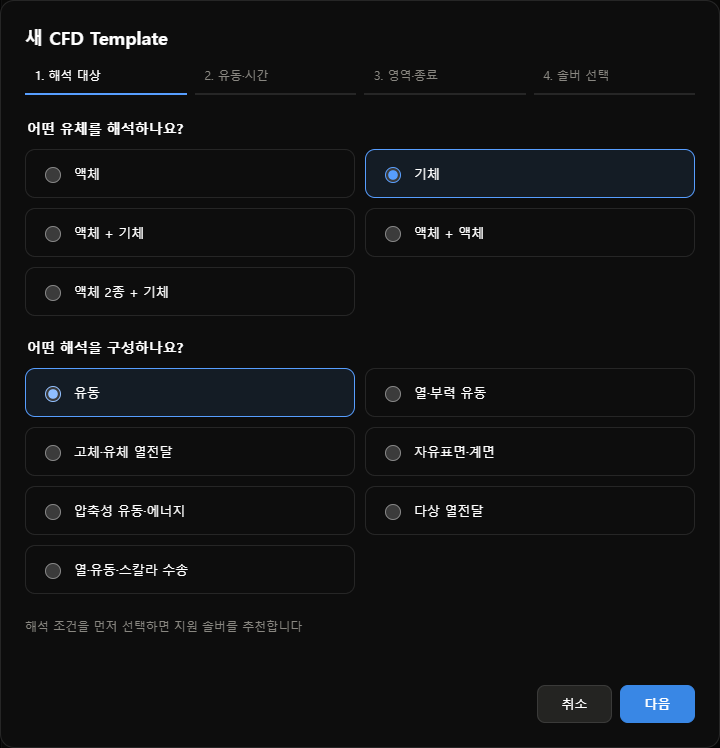
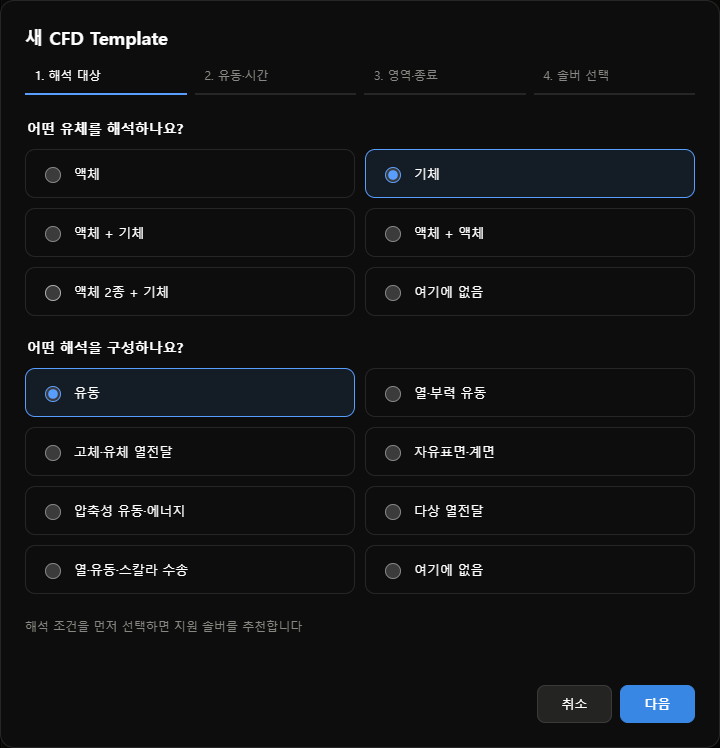
Add unsupported choices to every CFD Template survey question

Changed region(s): [[0.5194, 0.738, 0.6722, 0.7995], [0.5194, 0.369, 0.6722, 0.3997], [0.0611, 0.5227, 0.0917, 0.5535]]

diff --git a/cfd_studio/internal/i18n_help.js b/cfd_studio/internal/i18n_help.js
@@ -8,7 +8,7 @@
  ['Solvers and inputs',[ 'Choose liquid, gas or multiple phases; supply material properties and initial/boundary conditions', 'Geometry and mesh define the calculation domain and spatial resolution', 'Numerical settings include discretization, linear solvers, coupling, time step and output interval', 'Required fields depend on the selected solver and models', 'Standard solvers include icoFoam, simpleFoam, pisoFoam, pimpleFoam, buoyantSimpleFoam, buoyantPimpleFoam, chtMultiRegionFoam, interFoam, interIsoFoam and rhoPimpleFoam', 'Studio also defines dedicated multiphase cooling and warehouse transport configurations', 'Installation check detects executable files; it does not install a solver or connect a new execution adapter', 'New generic Templates support project, Config and preset storage; running them requires a compatible execution adapter' ]],
  ['Results',[ '3D Virtual: stored fields, geometry and saved-time playback', 'Data Sheet: up to three overall means on the left and nearest-cell time series at specified coordinates on the right', 'Line, bar and scatter are display styles; changing style does not change result values', 'The mean is an arithmetic mean of valid stored cells, not a volume-weighted mean', 'Solver time step, output interval, playback speed and termination are independent', 'Execution status, numerical checks and visualization readiness are separate; 100% visualization readiness does not establish convergence or experimental validation' ]]],
  [['CFD',[ 'Open the CFD tab at the top', 'Find project: choose a CFD Studio project folder and select Add; folder structure and records are checked before registration', 'New project: enter name, folder and description; select a CFD Template and either Enter values or a Template preset', 'Enter Config: complete the blank fields, select Apply, then Save in the project dialog', 'Save as preset is off by default; enable it and enter a new name to save a separate preset', 'Manage project: edit name, description, default preset or folder; a default-preset change affects future Cases only', 'Changing the folder copies and verifies data before switching the connection; existing originals are preserved', '+CFD Case: enter a name, edit Config and termination, then Save Case', 'Select the Case → Add to queue → Start queue', 'Config differences and Solver log stay visible; long content scrolls inside each section' ]],
- ['CFD Template',[ 'CFD Template list → +; use Edit beside an existing Template', 'Complete analysis target, flow/time and domain/termination questions before choosing a solver', 'Recommend solvers: compare matching candidates and select one; no fields are generated until selection', 'Generate fields → enter name and description → Edit fields → Apply → Save Template', 'Edit questionnaire to revise conditions; Cancel preserves the existing structure. An existing Template keeps its solver; use a new Template for another solver. Enter physical values when creating a project', 'Download JSON / Import JSON in the Template editor uses definition files; project Config uses input-value JSON', 'Changing the display language does not change JSON keys, units or stored input values' ]],
+ ['CFD Template',[ 'CFD Template list → +; use Edit beside an existing Template', 'Complete analysis target, flow/time and domain/termination questions before choosing a solver', 'None of these: shows unsupported questions and blocks recommendations and generation for the current registered solvers and forms; revise the answer or cancel', 'Recommend solvers: compare matching candidates and select one; no fields are generated until selection', 'Generate fields → enter name and description → Edit fields → Apply → Save Template', 'Edit questionnaire to revise conditions; Cancel preserves the existing structure. An existing Template keeps its solver; use a new Template for another solver. Enter physical values when creating a project', 'Download JSON / Import JSON in the Template editor uses definition files; project Config uses input-value JSON', 'Changing the display language does not change JSON keys, units or stored input values' ]],
  ['Queue and recovery',[ 'Before execution: edit, reorder with ↑ / ↓, or remove pending Cases', 'Pause after current Case lets the current calculation finish and pauses the next', 'Failure stops the queue; inspect Failure details and recovery, then Retry or Skip and Start queue', 'Resume is available only when the adapter and complete restart data support it; the warehouse adapter currently does not support resume', 'Retry preserves previous records and starts a new attempt; completed calculations are not automatically rerun', 'After restarting Studio, records and queue are restored; inspect the queue before starting' ]],
  ['Termination',[ 'Choose physical time or saved frame count; state whether the initial 0 s frame is included', 'Frame count means completely saved result frames, not solver iterations', 'Convergence termination is disabled until the execution adapter supports sustained convergence checks', 'To reuse a started Case: View Config → New Case from this Config' ]],
  ['Results and export',[ 'Generate prepares saved results for visualization; Update adds new results; Open enters Viewer', 'Result folder opens the original result location', 'Full CSV in CFD Case details exports all stored time-series and spatial arrays in a ZIP, independent of the visible graph', 'The ZIP includes time_series.csv, fields/ and manifest.json; unsaved original cells cannot be reconstructed' ]],
@@ -24,7 +24,7 @@
  ['ソルバーと入力',[ '液体・気体・多相を選択し、物性・初期条件・境界条件を入力', '形状・メッシュで計算領域と空間解像度を定義', '数値設定には離散化・線形ソルバー・連成手法・時間刻み・保存間隔を指定', '必須入力は選択したソルバー・モデルによって変化', '標準ソルバー：icoFoam、simpleFoam、pisoFoam、pimpleFoam、buoyantSimpleFoam、buoyantPimpleFoam、chtMultiRegionFoam、interFoam、interIsoFoam、rhoPimpleFoam', 'Studioには多相冷却・倉庫輸送の専用構成も用意', 'インストール確認は実行ファイルの有無を確認する機能。インストールや実行アダプターの接続は別途必要', '新規汎用Templateはプロジェクト・Config・プリセットを保存可能。計算には対応する実行アダプターが必要' ]],
  ['結果',[ '3D Virtual：保存された場・形状・時間変化を表示', 'Data Sheet：左側に最大3項目の全体平均、右側に指定座標の最近接セルの時系列を表示', '折れ線・棒・散布図は表示形式。形式を変更しても結果値は不変', '全体平均は有効な保存セルの算術平均であり、体積加重平均ではありません', 'ソルバー時間刻み・結果保存間隔・再生速度・終了条件は独立', '実行状態・数値検査・可視化準備率を別々に表示。準備率100%は収束・実験検証の完了を意味しません' ]]],
  [['CFD',[ '画面上部のCFDタブを選択', 'プロジェクトを探す：CFD Studioプロジェクトのフォルダーを選択して追加。構造と記録の検証後に登録', '新規プロジェクト：名前・フォルダー・説明を入力し、CFD Templateと直接入力またはプリセットを選択', 'Configを入力：空欄に値を記入 → Apply → プロジェクト画面で保存', 'プリセットに保存は既定でオフ。オンにして新しい名前を入力すると別のプリセットとして保存', 'プロジェクト管理：名前・説明・既定プリセット・保存先を変更。既定プリセット変更は今後のCaseにのみ適用', '保存先変更はコピー・検証後に接続先を切替。元のデータは保持', '+CFD Case：名前・Config・終了条件を入力してCaseを保存', 'Caseを選択 → キューに追加 → キューを開始', 'Configの差分とソルバーログは常時表示。長い内容は各領域内でスクロール' ]],
- ['CFD Template',[ 'CFD Template一覧 → +。既存項目は右側の編集を選択', '解析対象・流動と時間・領域と終了条件の設問に回答してからソルバーを選択', 'ソルバーを推薦：条件に適合する候補を比較して1つ選択。選択前には入力形式を生成しません', '入力形式を生成 → 名前・説明を入力 → 入力形式を編集 → Apply → Templateを保存', '設問を編集で条件変更。キャンセルすると既存形式を保持。既存Templateのソルバーは固定し、別のソルバーには新規Templateを使用。物理入力値はプロジェクト作成時に入力', 'Template画面のDownload JSON / Import JSONは定義ファイル、プロジェクトConfigでは入力値JSONを使用', '表示言語を変更してもJSONキー・単位・保存入力値は不変' ]],
+ ['CFD Template',[ 'CFD Template一覧 → +。既存項目は右側の編集を選択', '解析対象・流動と時間・領域と終了条件の設問に回答してからソルバーを選択', 'ここにない：現在登録済みのソルバー・入力形式では対応できない項目を表示し、推薦・生成を停止。回答の変更またはキャンセルが可能', 'ソルバーを推薦：条件に適合する候補を比較して1つ選択。選択前には入力形式を生成しません', '入力形式を生成 → 名前・説明を入力 → 入力形式を編集 → Apply → Templateを保存', '設問を編集で条件変更。キャンセルすると既存形式を保持。既存Templateのソルバーは固定し、別のソルバーには新規Templateを使用。物理入力値はプロジェクト作成時に入力', 'Template画面のDownload JSON / Import JSONは定義ファイル、プロジェクトConfigでは入力値JSONを使用', '表示言語を変更してもJSONキー・単位・保存入力値は不変' ]],
  ['キューと復旧',[ '開始前のCaseは編集・↑ / ↓で並べ替え・キューから除外が可能', '現在のCase完了後に一時停止：現在の計算を続け、次のCaseから停止', '失敗時はキュー停止。失敗理由と復旧を確認 → やり直す／スキップ → キューを開始', '再開には対応アダプターと完全な再開データが必要。倉庫アダプターは現在再開に未対応', 'やり直す：前の記録を保持して新しい試行を開始。完了済みの計算は自動再実行しません', 'Studio再起動後は記録・キューを復元。キューを確認してから開始' ]],
  ['終了条件',[ '指定物理時間または保存フレーム数を選択。0秒の初期フレームを含むかを確認', 'フレーム数は完全保存された結果の数であり、ソルバー反復回数とは別', '収束終了は一定期間の収束判定に対応する実行アダプター接続まで無効', '実行済み入力を再利用：Configを表示 → このConfigで新規Case' ]],
  ['結果と書き出し',[ '生成：結果を可視化用に準備。更新：新規結果を反映。開く：Viewerを表示', '結果フォルダー：原本の保存先を開く', 'CFDのCase詳細にある全CSV：表示中のグラフと無関係に全保存時系列・空間配列をZIPで書き出す', 'ZIPはtime_series.csv・fields/・manifest.jsonを含む。未保存の原本セルは復元不可' ]],

diff --git a/cfd_studio/internal/form_wizard.js b/cfd_studio/internal/form_wizard.js
@@ -3,7 +3,7 @@
     const el=(tag,text,cls)=>{const e=document.createElement(tag);if(text!=null)e.textContent=text;if(cls)e.className=cls;return e;};
   function ensureStyle(){
     if(!document.getElementById('formWizardStyle')){const style=el('style');style.id='formWizardStyle';style.textContent=`
-      .fw-dialog [hidden]{display:none!important}.fw-dialog{width:min(720px,94vw);max-height:90vh;overflow:auto;border:1px solid var(--line);border-radius:14px;padding:24px;background:var(--card,var(--page));color:var(--text)}.fw-dialog::backdrop{background:#000a}.fw-dialog h2{font-size:18px;margin:0 0 8px}.fw-meta{color:var(--muted);font-size:12px;margin-bottom:20px}.fw-progress{display:flex;gap:8px;margin:0 0 24px}.fw-progress span{flex:1;padding:10px;border-bottom:2px solid var(--line);font-size:12px;color:var(--muted)}.fw-progress [aria-current=step]{color:var(--text);border-color:var(--accent,#579eff)}.fw-question{border:0;padding:0;margin:0 0 22px}.fw-question legend{font-size:14px;font-weight:600;margin-bottom:12px}.fw-options{display:grid;grid-template-columns:repeat(2,minmax(0,1fr));gap:10px}.fw-choice{display:flex;align-items:center;gap:10px;padding:14px;border:1px solid var(--line);border-radius:10px;cursor:pointer;background:var(--page);font-size:13px}.fw-choice:has(input:checked){border-color:var(--accent,#579eff);background:color-mix(in srgb,var(--accent,#579eff) 10%,var(--page))}.fw-choice input{width:16px;height:16px;accent-color:var(--accent,#579eff)}.fw-actions{display:flex;justify-content:flex-end;gap:8px;margin-top:18px}.fw-error{color:var(--red,#f88);font-size:12px;min-height:18px}.fw-summary{display:grid;grid-template-columns:1fr 1fr;gap:8px;margin:16px 0}.fw-summary div{padding:12px;border:1px solid var(--line);border-radius:9px;font-size:13px}.fw-note{font-size:12px;color:var(--muted);line-height:1.7}.fw-dialog button{min-width:75px}@media(max-width:520px){.fw-options,.fw-summary{grid-template-columns:1fr}}
+      .fw-dialog [hidden]{display:none!important}.fw-dialog{width:min(720px,94vw);max-height:90vh;overflow:auto;border:1px solid var(--line);border-radius:14px;padding:24px;background:var(--card,var(--page));color:var(--text)}.fw-dialog::backdrop{background:#000a}.fw-dialog h2{font-size:18px;margin:0 0 8px}.fw-meta{color:var(--muted);font-size:12px;margin-bottom:20px}.fw-progress{display:flex;gap:8px;margin:0 0 24px}.fw-progress span{flex:1;padding:10px;border-bottom:2px solid var(--line);font-size:12px;color:var(--muted)}.fw-progress [aria-current=step]{color:var(--text);border-color:var(--accent,#579eff)}.fw-question{border:0;padding:0;margin:0 0 22px}.fw-question legend{font-size:14px;font-weight:600;margin-bottom:12px}.fw-options{display:grid;grid-template-columns:repeat(2,minmax(0,1fr));gap:10px}.fw-choice{display:flex;align-items:center;gap:10px;padding:14px;border:1px solid var(--line);border-radius:10px;cursor:pointer;background:var(--page);font-size:13px}.fw-choice:has(input:checked){border-color:var(--accent,#579eff);background:color-mix(in srgb,var(--accent,#579eff) 10%,var(--page))}.fw-choice input{width:16px;height:16px;accent-color:var(--accent,#579eff)}.fw-actions{display:flex;justify-content:flex-end;gap:8px;margin-top:18px}.fw-error{color:var(--red,#f88);font-size:12px;min-height:18px}.fw-summary{display:grid;grid-template-columns:1fr 1fr;gap:8px;margin:16px 0}.fw-summary div{padding:12px;border:1px solid var(--line);border-radius:9px;font-size:13px}.fw-note{font-size:12px;color:var(--muted);line-height:1.7}.fw-unsupported{border:1px solid var(--red,#c77770);border-radius:10px;padding:14px;margin-top:14px}.fw-unsupported strong{color:var(--red,#ed9288)}.fw-unsupported ul{font-size:12px;padding-left:20px}.fw-dialog button{min-width:75px}@media(max-width:520px){.fw-options,.fw-summary{grid-template-columns:1fr}}
     `;document.head.append(style);}
   }
 
@@ -42,8 +42,17 @@
     const titles={medium:'어떤 유체를 해석하나요?',purpose:'어떤 해석을 구성하나요?',regime:'유동 모델은 무엇인가요?',time_mode:'시간에 따른 변화를 계산하나요?',domain:'해석 영역은 어디인가요?',mesh:'격자는 어떻게 준비하나요?',termination:'어떤 기준으로 종료하나요?'};
     const d=el('dialog',null,'fw-dialog fw-recommend-dialog'),title=el('h2','새 CFD Template'),progress=el('nav',null,'fw-progress'),body=el('div'),error=el('p',null,'fw-error'),actions=el('div',null,'fw-actions');error.setAttribute('role','alert');
     const button=(label,fn,cls='')=>{const b=el('button',label,'btn '+cls);b.type='button';b.onclick=fn;return b;};
+    const unsupported=el('section',null,'fw-unsupported');unsupported.setAttribute('role','status');unsupported.hidden=true;
+    const fieldNames={medium:'유체',purpose:'해석',regime:'유동 모델',time_mode:'시간 방식',domain:'해석 영역',mesh:'격자 준비',termination:'종료 조건'};
+    const blocked=()=> (step<2?steps[step].slice(1):Object.keys(values)).some(k=>values[k]==='not_listed');
+    function showUnsupported(){
+      const fields=Object.keys(values).filter(k=>values[k]==='not_listed');unsupported.hidden=!fields.length;unsupported.replaceChildren();
+      if(fields.length){unsupported.append(el('strong','지원 불가'),el('p','여기에 없음으로 선택한 항목','fw-note'));const list=el('ul');for(const k of fields)list.append(el('li',fieldNames[k]||k));unsupported.append(list,el('p','현재 등록된 솔버·양식에서 지원하지 않습니다 · 해당 조건의 추가 정의가 필요합니다','fw-note'));}
+      next.disabled=busy||blocked()||(step===3&&!chosen);
+    }
     const cancel=button('취소',()=>d.close()),back=button('이전',()=>{if(!busy&&step>0){step--;render();}}),next=button('다음',async()=>{
       if(busy)return;error.textContent='';
+      if(blocked()){showUnsupported();return;}
       if(step<3)for(const key of steps[step].slice(1)){if(!values[key]){error.textContent=titles[key];return;}}
       if(step<2){step++;render();return;}
       if(step===3&&!chosen){error.textContent='추천 목록에서 솔버를 선택하세요';return;}
@@ -54,14 +63,14 @@
         else{const result=await generate(chosen,snapshot);if(!d.isConnected)return;await onApply({solver:chosen,answers:snapshot,result});if(d.isConnected)d.close();return;}
       }catch(e){if(d.isConnected)error.textContent=e.message;}
       finally{busy=false;if(d.isConnected)render();}
-    },'pri');actions.append(cancel,back,next);d.append(title,progress,body,error,actions);
+    },'pri');actions.append(cancel,back,next);d.append(title,progress,body,unsupported,error,actions);
     function render(){
       progress.replaceChildren();for(const [i,s] of steps.entries()){const n=el('span',(i+1)+'. '+s[0]);if(i===step)n.setAttribute('aria-current','step');progress.append(n);}
       body.replaceChildren();back.hidden=step===0;back.disabled=busy;next.disabled=busy||(step===3&&!chosen);next.textContent=step===2?'솔버 추천':step===3?'양식 생성':'다음';
       if(step<3){
         for(const key of steps[step].slice(1)){
           const group=el('fieldset',null,'fw-question'),choices=el('div',null,'fw-options');group.append(el('legend',titles[key]),choices);
-          for(const item of options[key]){const label=el('label',null,'fw-choice'),radio=el('input');radio.type='radio';radio.name=key;radio.value=item.value;radio.checked=values[key]===item.value;radio.onchange=()=>{values[key]=item.value;chosen='';selected='';error.textContent='';};label.append(radio,el('span',item.label));choices.append(label);}
+          for(const item of options[key]){const label=el('label',null,'fw-choice'),radio=el('input');radio.type='radio';radio.name=key;radio.value=item.value;radio.checked=values[key]===item.value;radio.onchange=()=>{values[key]=item.value;chosen='';selected='';error.textContent='';showUnsupported();};label.append(radio,el('span',item.label));choices.append(label);}
           body.append(group);
         }
         body.append(el('p','해석 조건을 먼저 선택하면 지원 솔버를 추천합니다','fw-note'));
@@ -76,6 +85,7 @@
         body.append(el('p',summary.basis,'fw-note'),el('p','새 Template은 양식만 생성하며 계산에는 실행기 연결이 필요합니다','fw-note'));
         if(replace)body.append(el('p','양식 생성 시 기존 편집 양식을 교체합니다 · 취소하면 기존 양식 유지','fw-note'));
       }
+      showUnsupported();
     }
     d.onclose=()=>d.remove();render();document.body.append(d);d.showModal();
   }

diff --git a/tests/browser_solver_survey.js b/tests/browser_solver_survey.js
@@ -7,11 +7,29 @@ async page=>{
  let wizard=page.locator('.fw-recommend-dialog');await wizard.waitFor();
  check(await page.locator('dialog.ew-form-dialog').count()===0,'new Template begins with questionnaire');check(await wizard.locator('[name=solver],[name=recommended_solver]').count()===0,'no solver choice before questionnaire');
  await wizard.getByRole('button',{name:'다음',exact:true}).click();check(await wizard.getByRole('alert').innerText().then(t=>t.includes('유체')),'unanswered question prevents advance');
+ // Every question permits an explicit unsupported answer without creating a Template.
+ const noneCheck=async(key,valid)=>{
+  const radios=wizard.locator(`input[name=${key}]`);
+  check(await radios.last().inputValue()==='not_listed',key+' has none-of-these last');
+  await radios.last().check();
+  check(await wizard.locator('.fw-unsupported').isVisible(),key+' shows unsupported verdict');
+  check(await wizard.locator('.fw-actions .pri').isDisabled(),key+' blocks next step');
+  await wizard.locator(`input[name=${key}][value=${valid}]`).check();
+  check(await wizard.locator('.fw-unsupported').isHidden()&&!await wizard.locator('.fw-actions .pri').isDisabled(),key+' can recover');
+ };
+ await noneCheck('medium','gas');await noneCheck('purpose','flow');
+ await wizard.locator('input[name=medium][value=not_listed]').check();await wizard.locator('input[name=purpose][value=not_listed]').check();
+ check(await wizard.locator('.fw-unsupported li').count()===2,'all unsupported questions listed');
+ await page.evaluate(()=>CFDI18n.setLanguage('en'));await wizard.getByText('Not supported',{exact:true}).waitFor();check(await wizard.getByText('None of these',{exact:true}).count()===2,'English none option');
+ await page.evaluate(()=>CFDI18n.setLanguage('ja'));await wizard.getByText('対応不可',{exact:true}).waitFor();check(await wizard.getByText('ここにない',{exact:true}).count()===2,'Japanese none option');
+ await page.evaluate(()=>CFDI18n.setLanguage('ko'));await wizard.getByText('지원 불가',{exact:true}).waitFor();await wizard.screenshot({path:'output/playwright/survey-unsupported.png'});
+ check(JSON.stringify(await api('/forms'))===JSON.stringify(before),'unsupported choices leave stored Templates unchanged');
  await wizard.locator('input[name=medium][value=gas]').check();await wizard.locator('input[name=purpose][value=flow]').check();
  await page.evaluate(()=>CFDI18n.setLanguage('en'));check(await wizard.innerText().then(t=>t.includes('Which fluid')),'English questionnaire');await page.evaluate(()=>CFDI18n.setLanguage('ja'));check(await wizard.innerText().then(t=>t.includes('どの流体')),'Japanese questionnaire');await page.evaluate(()=>CFDI18n.setLanguage('ko'));check(await wizard.locator('input[name=medium][value=gas]').isChecked(),'answers retained across language changes');
  await wizard.screenshot({path:'output/playwright/solver-survey.png'});
- await wizard.getByRole('button',{name:'다음',exact:true}).click();await wizard.locator('input[name=regime][value=laminar]').check();await wizard.locator('input[name=time_mode][value=transient]').check();await wizard.getByRole('button',{name:'다음',exact:true}).click();
- for(const [k,v] of Object.entries({domain:'internal',mesh:'import',termination:'physical_time'}))await wizard.locator(`input[name=${k}][value=${v}]`).check();
+ await wizard.getByRole('button',{name:'다음',exact:true}).click();await noneCheck('regime','laminar');await noneCheck('time_mode','transient');await wizard.getByRole('button',{name:'다음',exact:true}).click();
+ for(const [k,v] of Object.entries({domain:'internal',mesh:'import',termination:'physical_time'}))await noneCheck(k,v);
+ await wizard.locator('input[name=mesh][value=not_listed]').check();await wizard.getByRole('button',{name:'이전',exact:true}).click();await wizard.getByRole('button',{name:'다음',exact:true}).click();check(await wizard.locator('input[name=mesh][value=not_listed]').isChecked(),'back navigation preserves unsupported answer and permits returning to fix it');await wizard.locator('input[name=mesh][value=import]').check();
  await wizard.getByRole('button',{name:'솔버 추천',exact:true}).click();await wizard.locator('input[name=recommended_solver]').first().waitFor();
  check(JSON.stringify(await wizard.locator('input[name=recommended_solver]').evaluateAll(n=>n.map(x=>x.value)))===JSON.stringify(['icoFoam','pimpleFoam','pisoFoam']),'recommended set matches answers');
  check(generated===0,'recommendations do not generate fields');check(await wizard.getByRole('button',{name:'양식 생성',exact:true}).isDisabled(),'explicit solver selection required');

diff --git a/cfd_studio/internal/i18n.js b/cfd_studio/internal/i18n.js
@@ -612,6 +612,16 @@ add("모든 해석 조건을 선택하세요","Select all analysis conditions","
 add("지원되는 해석 조건을 선택하세요","Select supported analysis conditions","対応する解析条件を選択してください");
 add("추천 목록에서 조건에 맞는 솔버를 선택하세요","Select a compatible recommended solver","条件に適合する推薦ソルバーを選択してください");
 add("설문을 완료하고 솔버를 선택하세요","Complete the questionnaire and select a solver","設問に回答してソルバーを選択してください");
+add("여기에 없음","None of these","ここにない");
+add("지원 불가","Not supported","対応不可");
+add("여기에 없음으로 선택한 항목","Items marked as none of these","「ここにない」を選択した項目");
+add("현재 등록된 솔버·양식에서 지원하지 않습니다 · 해당 조건의 추가 정의가 필요합니다","Not supported by the registered solvers and input forms · These conditions require additional definitions","現在登録されているソルバー・入力形式では非対応 · この条件の追加定義が必要");
+add("지원 불가 · 여기에 없음으로 선택한 조건은 현재 등록된 솔버·양식에서 지원하지 않습니다","Not supported · Conditions marked as none of these are outside the registered solver and input-form definitions","対応不可 · 「ここにない」を選択した条件は登録済みソルバー・入力形式の対応範囲外");
+add("해당 조건을 지원하는 솔버·입력 양식의 추가 정의가 필요합니다","Additional solver and input-form definitions are required for these conditions","この条件に対応するソルバー・入力形式の追加定義が必要");
+add("유동 모델","Flow model","流動モデル");
+add("시간 방식","Time mode","時間方式");
+add("해석 영역","Analysis domain","解析領域");
+add("격자 준비","Mesh preparation","メッシュ準備");
 let language='ko';
 try{const saved=root.localStorage?.getItem(key);if(supported.includes(saved))language=saved;}catch(_){}
 const patterns=[

diff --git a/cfd_studio/app.py b/cfd_studio/app.py
@@ -14,7 +14,7 @@ from http.server import BaseHTTPRequestHandler, ThreadingHTTPServer
 from pathlib import Path
 from urllib.parse import urlparse, parse_qs, unquote
 
-APP_VER   = "v221"         # 화면 우상단·콘솔에 표시 — 업데이트 반영 확인용
+APP_VER   = "v222"         # 화면 우상단·콘솔에 표시 — 업데이트 반영 확인용
 PROCESS_STARTED = time.time()
 HERE      = os.path.dirname(os.path.abspath(__file__))
 # The bundled isolated Python also needs the application and repository modules.
@@ -5357,7 +5357,7 @@ INDEX_HTML = r'''<!DOCTYPE html>
    <details><summary>기존 프로젝트 등록</summary><ul><li>CFD 화면 왼쪽 상단 <b>프로젝트 찾기</b> 클릭</li><li><b>찾기</b>로 프로젝트 폴더 선택 또는 전체 경로 입력 → <b>추가</b></li><li>프로젝트 파일·실행 목록 검증 후 왼쪽 목록에 등록. 이미 등록된 폴더는 해당 프로젝트 선택</li><li>검증 실패 시 안내 내용을 확인하고 올바른 폴더 선택. 가져온 대기열은 일시정지 상태로 복원</li></ul></details>
    <details><summary>프로젝트 생성</summary><ul><li>왼쪽 <b>프로젝트</b> 제목 아래 <b>새 프로젝트</b> 클릭</li><li><b>프로젝트 이름</b> 입력 → <b>프로젝트 폴더</b> 옆 <b>찾기</b>로 저장 폴더 지정</li><li><b>프로젝트 설명</b> 입력 → <b>CFD Template</b> 선택 → <b>직접 입력 → Config 입력</b> 또는 해당 Template의 프리셋 선택 → <b>저장</b></li><li><b>프리셋에 저장</b> 체크 시 새 이름으로 입력값 프리셋 저장 · 기본 해제</li><li>저장한 프로젝트는 왼쪽 목록에서 이름을 클릭해 선택</li></ul></details>
    <details><summary>프로젝트 정보 및 저장 폴더 변경</summary><ul><li>프로젝트 선택 → 화면 오른쪽 상단 <b>프로젝트 관리</b></li><li>이름·설명·폴더·기본 프리셋 수정 → <b>저장</b>. C·D 등 드라이브 선택 가능</li><li>기본 프리셋 변경은 이후 생성하는 Case에 적용</li><li>폴더 변경은 복사·검증 후 연결 전환. 원본 보존. 계산·결과 저장 중에는 변경 불가</li></ul></details>
-   <details><summary>CFD Template 생성 및 편집</summary><ul><li>왼쪽 <b>CFD Template 리스트 → +</b></li><li><b>해석 대상 → 유동·시간 → 영역·종료</b> 순서로 설문 작성 → <b>솔버 추천</b></li><li>후보의 기능·출력·제한 확인 → 솔버 선택 → <b>양식 생성</b></li><li>맞는 후보가 없으면 <b>이전</b>으로 조건 확인 · 추천은 양식 지원 조건 기준이며 설치·실행 연결과 별도</li><li><b>양식 확인</b>에서 이름·설명 입력 → <b>양식 편집</b>에서 Key·Type·Unit 확인 → <b>Apply → Template 저장</b></li><li><b>설문 수정</b>으로 재구성 · 취소하면 기존 양식 유지 · 물성·치수·초기값은 프로젝트 생성 시 입력</li><li>기존 Template의 솔버는 고정 · 다른 솔버는 새 Template 생성</li><li><b>Download JSON / Import JSON</b>: Template 정의 파일 · 실제 입력값 JSON은 프로젝트의 <b>Config 입력</b>에서 관리</li><li><b>설치 확인</b>: 실행 파일 유무 확인 · 신규 Template 계산은 실행기 연결 필요</li></ul></details>
+   <details><summary>CFD Template 생성 및 편집</summary><ul><li>왼쪽 <b>CFD Template 리스트 → +</b></li><li><b>해석 대상 → 유동·시간 → 영역·종료</b> 순서로 설문 작성 → <b>솔버 추천</b></li><li><b>여기에 없음</b>: 지원하지 않는 항목 안내 후 추천·생성 중지 · 선택 수정 또는 취소 가능 · 현재 등록된 솔버·양식 기준</li><li>후보의 기능·출력·제한 확인 → 솔버 선택 → <b>양식 생성</b></li><li>맞는 후보가 없으면 <b>이전</b>으로 조건 확인 · 추천은 양식 지원 조건 기준이며 설치·실행 연결과 별도</li><li><b>양식 확인</b>에서 이름·설명 입력 → <b>양식 편집</b>에서 Key·Type·Unit 확인 → <b>Apply → Template 저장</b></li><li><b>설문 수정</b>으로 재구성 · 취소하면 기존 양식 유지 · 물성·치수·초기값은 프로젝트 생성 시 입력</li><li>기존 Template의 솔버는 고정 · 다른 솔버는 새 Template 생성</li><li><b>Download JSON / Import JSON</b>: Template 정의 파일 · 실제 입력값 JSON은 프로젝트의 <b>Config 입력</b>에서 관리</li><li><b>설치 확인</b>: 실행 파일 유무 확인 · 신규 Template 계산은 실행기 연결 필요</li></ul></details>
    <details><summary>CFD Case 생성 및 Config 입력</summary><ul><li>프로젝트 선택 → 화면 오른쪽 상단 파란 <b>+CFD Case</b></li><li><b>Case 이름</b> 입력 → 왼쪽 Config 항목 선택 → 오른쪽 값 입력</li><li>숫자 입력란은 문자 입력·붙여넣기를 차단. 정수 입력란은 소수도 차단. 빈 필수값·미완성 숫자·잘못된 JSON은 수정 후 저장</li><li><b>종료 조건·목표</b>에서 <b>특정 물리시간</b> 또는 <b>저장 프레임 수</b> 선택 → 목표값 입력</li><li>프레임 수 선택 시 <b>0초 초기 프레임 포함</b> 여부 확인. <b>수렴 기준</b>은 현재 선택 불가</li><li>창 하단 파란 <b>실행 저장</b> → 실행 목록에 Case 추가. 계산 시작은 대기열에서 진행</li></ul></details>
    <details><summary>프리셋 저장 및 불러오기</summary><ul><li>Case의 Config 편집창 상단 <b>프리셋에 저장</b> 체크박스</li><li>체크 해제: 해당 Case에만 저장. 체크: 새 프리셋 이름 입력 → <b>실행 저장</b> 시 별도 프리셋 저장</li><li>기존 값 사용: <b>프리셋 불러오기</b>에서 선택 → <b>불러오기</b></li></ul></details>
    <details><summary>대기열 구성 및 CFD 실행</summary><ul><li>가운데 <b>실행 목록</b>에서 Case 선택 → 오른쪽 <b>대기열에 추가</b></li><li>아래 <b>대기열</b> 영역의 파란 <b>대기열 시작</b> → <b>계산 중</b> 상태 확인</li><li>여러 Case는 각각 추가. 대기열 행의 <b>↑ / ↓</b>로 순서 변경, <b>제외</b>로 대기열에서 제거</li><li><b>다음 실행부터 일시정지</b>: 현재 Case 계산 유지. <b>실행 중단</b>: 선택한 실행 중 Case 중단</li><li>진행 내용: 오른쪽 <b>솔버 로그</b>에서 확인 · 항상 표시</li><li>실패: 원인 확인 → <b>실패 사유 및 복구</b> → <b>다시하기 / 이어하기 / 건너뛰기</b> → <b>대기열 시작</b>. 앱 재시작 후에도 대기열을 확인하고 시작</li><li><b>다시하기</b>: 기존 기록을 보존하고 처음부터 계산. Config 검증 실패 시 입력 수정 필요</li><li><b>이어하기</b>: 확인된 재시작 저장 지점부터 계산. 재시작 데이터가 없거나 실행기가 지원하지 않으면 사유 표시. 저장고 실행기는 현재 재개 미지원</li></ul></details>

diff --git a/cfd_studio/internal/form_wizard.py b/cfd_studio/internal/form_wizard.py
@@ -130,7 +130,7 @@ def survey_options():
     """Analysis-first questions; solver compatibility is checked separately."""
     labels=copy.deepcopy(LABELS)
     labels['time_mode']={'steady':'정상 해석','transient':'비정상 해석'}
-    return {k:[{'value':v,'label':label} for v,label in choices.items()] for k,choices in labels.items()}
+    return {k:[{'value':v,'label':label} for v,label in choices.items()]+[{'value':'not_listed','label':'여기에 없음'}] for k,choices in labels.items()}
 
 
 def recommend(answers):
@@ -139,6 +139,12 @@ def recommend(answers):
         raise ValueError('모든 해석 조건을 선택하세요')
     if any(not isinstance(answers[k],str) or answers[k] not in [o['value'] for o in choices] for k,choices in options.items()):
         raise ValueError('지원되는 해석 조건을 선택하세요')
+    missing=[k for k in options if answers[k]=='not_listed']
+    if missing:
+        return {'answers':copy.deepcopy(answers),'candidates':[],'status':'unsupported',
+                'unsupported_fields':missing,
+                'message':'지원 불가 · 여기에 없음으로 선택한 조건은 현재 등록된 솔버·양식에서 지원하지 않습니다',
+                'basis':'해당 조건을 지원하는 솔버·입력 양식의 추가 정의가 필요합니다'}
     candidates=[]
     for p in profiles():
         if p['time_mode']!=answers['time_mode']:continue
@@ -149,7 +155,7 @@ def recommend(answers):
                            'algorithm':p['requirements']['algorithm'],
                            'dedicated':item['dedicated'],
                            'reason':'선택한 유체·해석·시간 방식·유동 모델과 일치'})
-    return {'answers':copy.deepcopy(answers),'candidates':candidates,
+    return {'answers':copy.deepcopy(answers),'candidates':candidates,'status':'supported' if candidates else 'unsupported','unsupported_fields':[],
             'message':'' if candidates else '선택한 조건에 맞는 등록 솔버가 없습니다 · 이전 단계에서 조건을 확인하세요',
             'basis':'등록된 솔버의 양식 지원 조건 기준 · 설치 여부·실행 연결·물리 검증은 별도'}
 

diff --git a/tests/test_solver_recommendations.py b/tests/test_solver_recommendations.py
@@ -41,6 +41,21 @@ class SolverRecommendationTests(unittest.TestCase):
         with self.assertRaises(ValueError):generate_from_survey('simpleFoam',base())
         with self.assertRaises(ValueError):generate_from_survey('not-installed-custom-solver',base())
 
+    def test_none_of_these_is_valid_but_unsupported_for_every_question(self):
+        options=survey_options()
+        for key,choices in options.items():
+            self.assertEqual(choices[-1],{'value':'not_listed','label':'여기에 없음'})
+            a=base(**{key:'not_listed'});before=copy.deepcopy(a)
+            result=recommend(a)
+            self.assertEqual(result['status'],'unsupported')
+            self.assertEqual(result['unsupported_fields'],[key])
+            self.assertEqual(result['candidates'],[])
+            self.assertEqual(a,before)
+            with self.assertRaises(ValueError):generate_from_survey('icoFoam',a)
+        result=recommend(base(medium='not_listed',regime='not_listed'))
+        self.assertEqual(set(result['unsupported_fields']),{'medium','regime'})
+        self.assertEqual(recommend(base())['status'],'supported')
+
     def test_api_rechecks_compatibility_before_generation(self):
         class Handler:
             path='/api/executions/form-survey'
@@ -49,3 +64,6 @@ class SolverRecommendationTests(unittest.TestCase):
         h.path='/api/executions/form-recommend';post_route(h,None,{'answers':base()});self.assertEqual(h.code,200)
         h.path='/api/executions/form-from-survey';post_route(h,None,{'answers':base(),'solver':'icoFoam'});self.assertEqual(h.code,200)
         post_route(h,None,{'answers':base(),'solver':'interFoam'});self.assertEqual(h.code,400)
+
+        h.path='/api/executions/form-recommend';post_route(h,None,{'answers':base(mesh='not_listed')});self.assertEqual(h.code,200);self.assertEqual(h.value['result']['status'],'unsupported')
+        h.path='/api/executions/form-from-survey';post_route(h,None,{'answers':base(mesh='not_listed'),'solver':'icoFoam'});self.assertEqual(h.code,400)

diff --git a/docs/CFD-STUDIO-USER-GUIDE.md b/docs/CFD-STUDIO-USER-GUIDE.md
@@ -77,6 +77,7 @@
 - **유동·시간**: 층류·난류, 정상·비정상 해석 선택 → **다음**
 - **영역·종료**: 내부·외부 영역, 격자 준비 방식, 종료 조건 선택 → **솔버 추천**
 - 추천 목록에서 기능·출력·제한 확인 → 솔버 하나 선택 → **양식 생성**
+- **여기에 없음**: 해당 조건을 지원하는 등록 솔버·양식이 없음을 표시 · 지원하지 않는 항목 안내 후 추천·생성 중지 · 선택 수정 또는 취소 가능
 - 맞는 솔버가 없으면 **이전**으로 돌아가 조건 확인
 - **양식 확인** 화면에서 이름·설명 입력
 - **양식 편집**에서 Key·Type·Unit 확인 → **Apply → Template 저장**
@@ -88,6 +89,8 @@
 - **Download JSON / Import JSON**으로 Template 정의 파일 편집
 
 ![해석 조건 설문](assets/template-survey/survey.png)
+
+![지원 불가 항목 안내](assets/template-survey/unsupported.png)
 
 ![솔버 추천](assets/template-survey/recommendations.png)
 

diff --git a/docs/CFD-STUDIO-MANUAL.md b/docs/CFD-STUDIO-MANUAL.md
@@ -2,7 +2,7 @@
 
 - 대상: CFD Studio 사용자
 - 내용: Template·Config·저장 구조·결과 표시·지원 범위
-- 사용법과 화면 명칭 기준: v221
+- 사용법과 화면 명칭 기준: v222
 - 화면 조작: [사용법](CFD-STUDIO-USER-GUIDE.md)
 
 ## 설치 환경
@@ -266,6 +266,7 @@
 
 ## CFD Template
 
+- **여기에 없음**: 해당 조건을 지원하는 등록 솔버·양식이 없음을 표시 · 지원하지 않는 항목 안내 후 추천·생성 중지 · 선택 수정 또는 취소 가능
 - 생성 순서: 해석 조건 설문 → 솔버 추천·선택 → 빈 Config 양식 생성 → 이름·설명 입력 및 저장
 - 추천 조건: 유체·해석 목적·정상/비정상·유동 모델·영역·격자 준비·종료 방식
 - 등록된 솔버 양식에서 모든 답변을 지원하는 후보만 제시 · 계산 속도나 정확도 순위는 아님

diff --git a/docs/template-inputs.md b/docs/template-inputs.md
@@ -13,6 +13,7 @@
 
 - **CFD Template 리스트 → +**
 - 해석 대상 → 유동·시간 → 영역·종료 순서로 설문 작성
+- **여기에 없음**: 해당 조건을 지원하는 등록 솔버·양식이 없음을 표시 · 지원하지 않는 항목 안내 후 추천·생성 중지 · 선택 수정 또는 취소 가능
 - **솔버 추천** → 조건에 맞는 후보의 기능·출력·제한 비교 → 솔버 선택
 - **양식 생성** 후 이름·설명 입력
 - **양식 편집**에서 Key·Type·Unit 확인 → **Apply → Template 저장**
